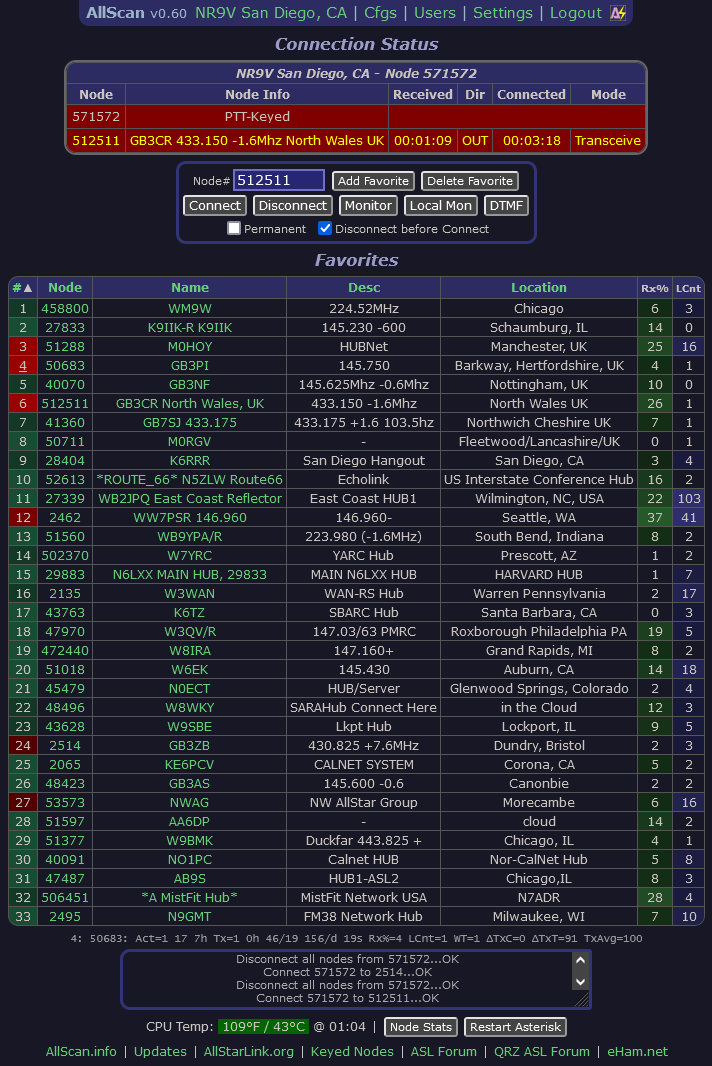
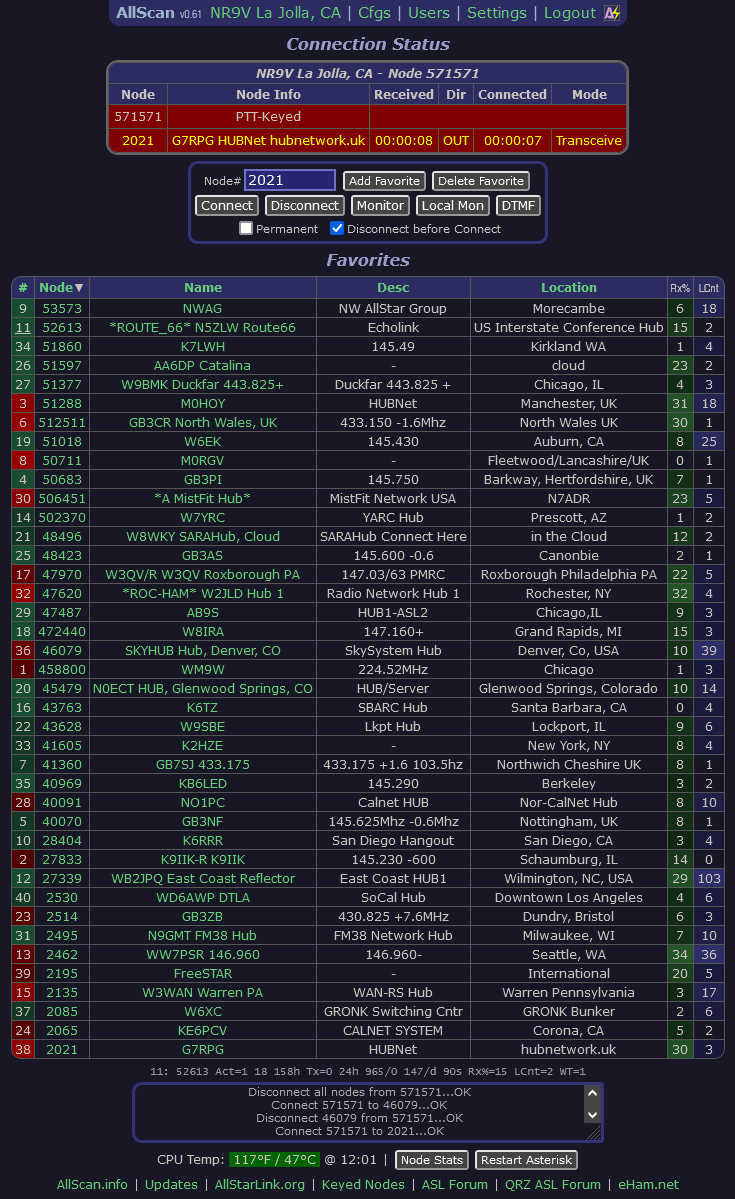
Update Favs table sort function to use case-insensitive string sort option. CSS optimization.

diff --git a/css/main.css b/css/main.css
@@ -225,6 +225,9 @@ line-height:100%;
 table.favs th, table.favs td {
 padding:3px;
 }
+small {
+font:11px/1.25 "Helvetica Narrow","Arial Narrow",Verdana,Arial,Helvetica,sans-serif;
+}
 
 table.grid {
 min-width:460px;

diff --git a/index.php b/index.php
@@ -307,12 +307,12 @@ function sortArray($list, $col, $desc) {
 	$colVals = [];
 	foreach($list as $val)
 		$colVals[] = $val[$col];
-	// Sort the column data while retaining array keys
+	// Sort column, retain keys
 	if($desc)
-		arsort($colVals);
+		arsort($colVals, SORT_STRING | SORT_FLAG_CASE);
 	else
-		asort($colVals);
-	// Reorder the input array
+		asort($colVals, SORT_STRING | SORT_FLAG_CASE);
+	// Reorder input array
 	$out = [];
 	foreach(array_keys($colVals) as $k)
 		$out[] = $list[$k];

diff --git a/README.md b/README.md
@@ -111,7 +111,7 @@ I have received many Thank You's and offers for a cup of coffee or other small d
 
 # Release Notes
 **v0.61 2023-01-24**<br>
-Support 'Favorites.ini Locations' Cfgs setting. Optimizations to Favorites Add/Delete functions, support cases of blank or nonexistent files.
+Support 'Favorites.ini Locations' Cfgs setting. Optimizations to Favorites Add/Delete functions, support cases of blank or nonexistent files. Update Favs table sort function to use case-insensitive string sort option.
 
 **v0.60 2023-01-24**<br>
 Minor optimizations. Link Connection Status table node names to ASL stats page. Adjust Favs table highlight colors.
